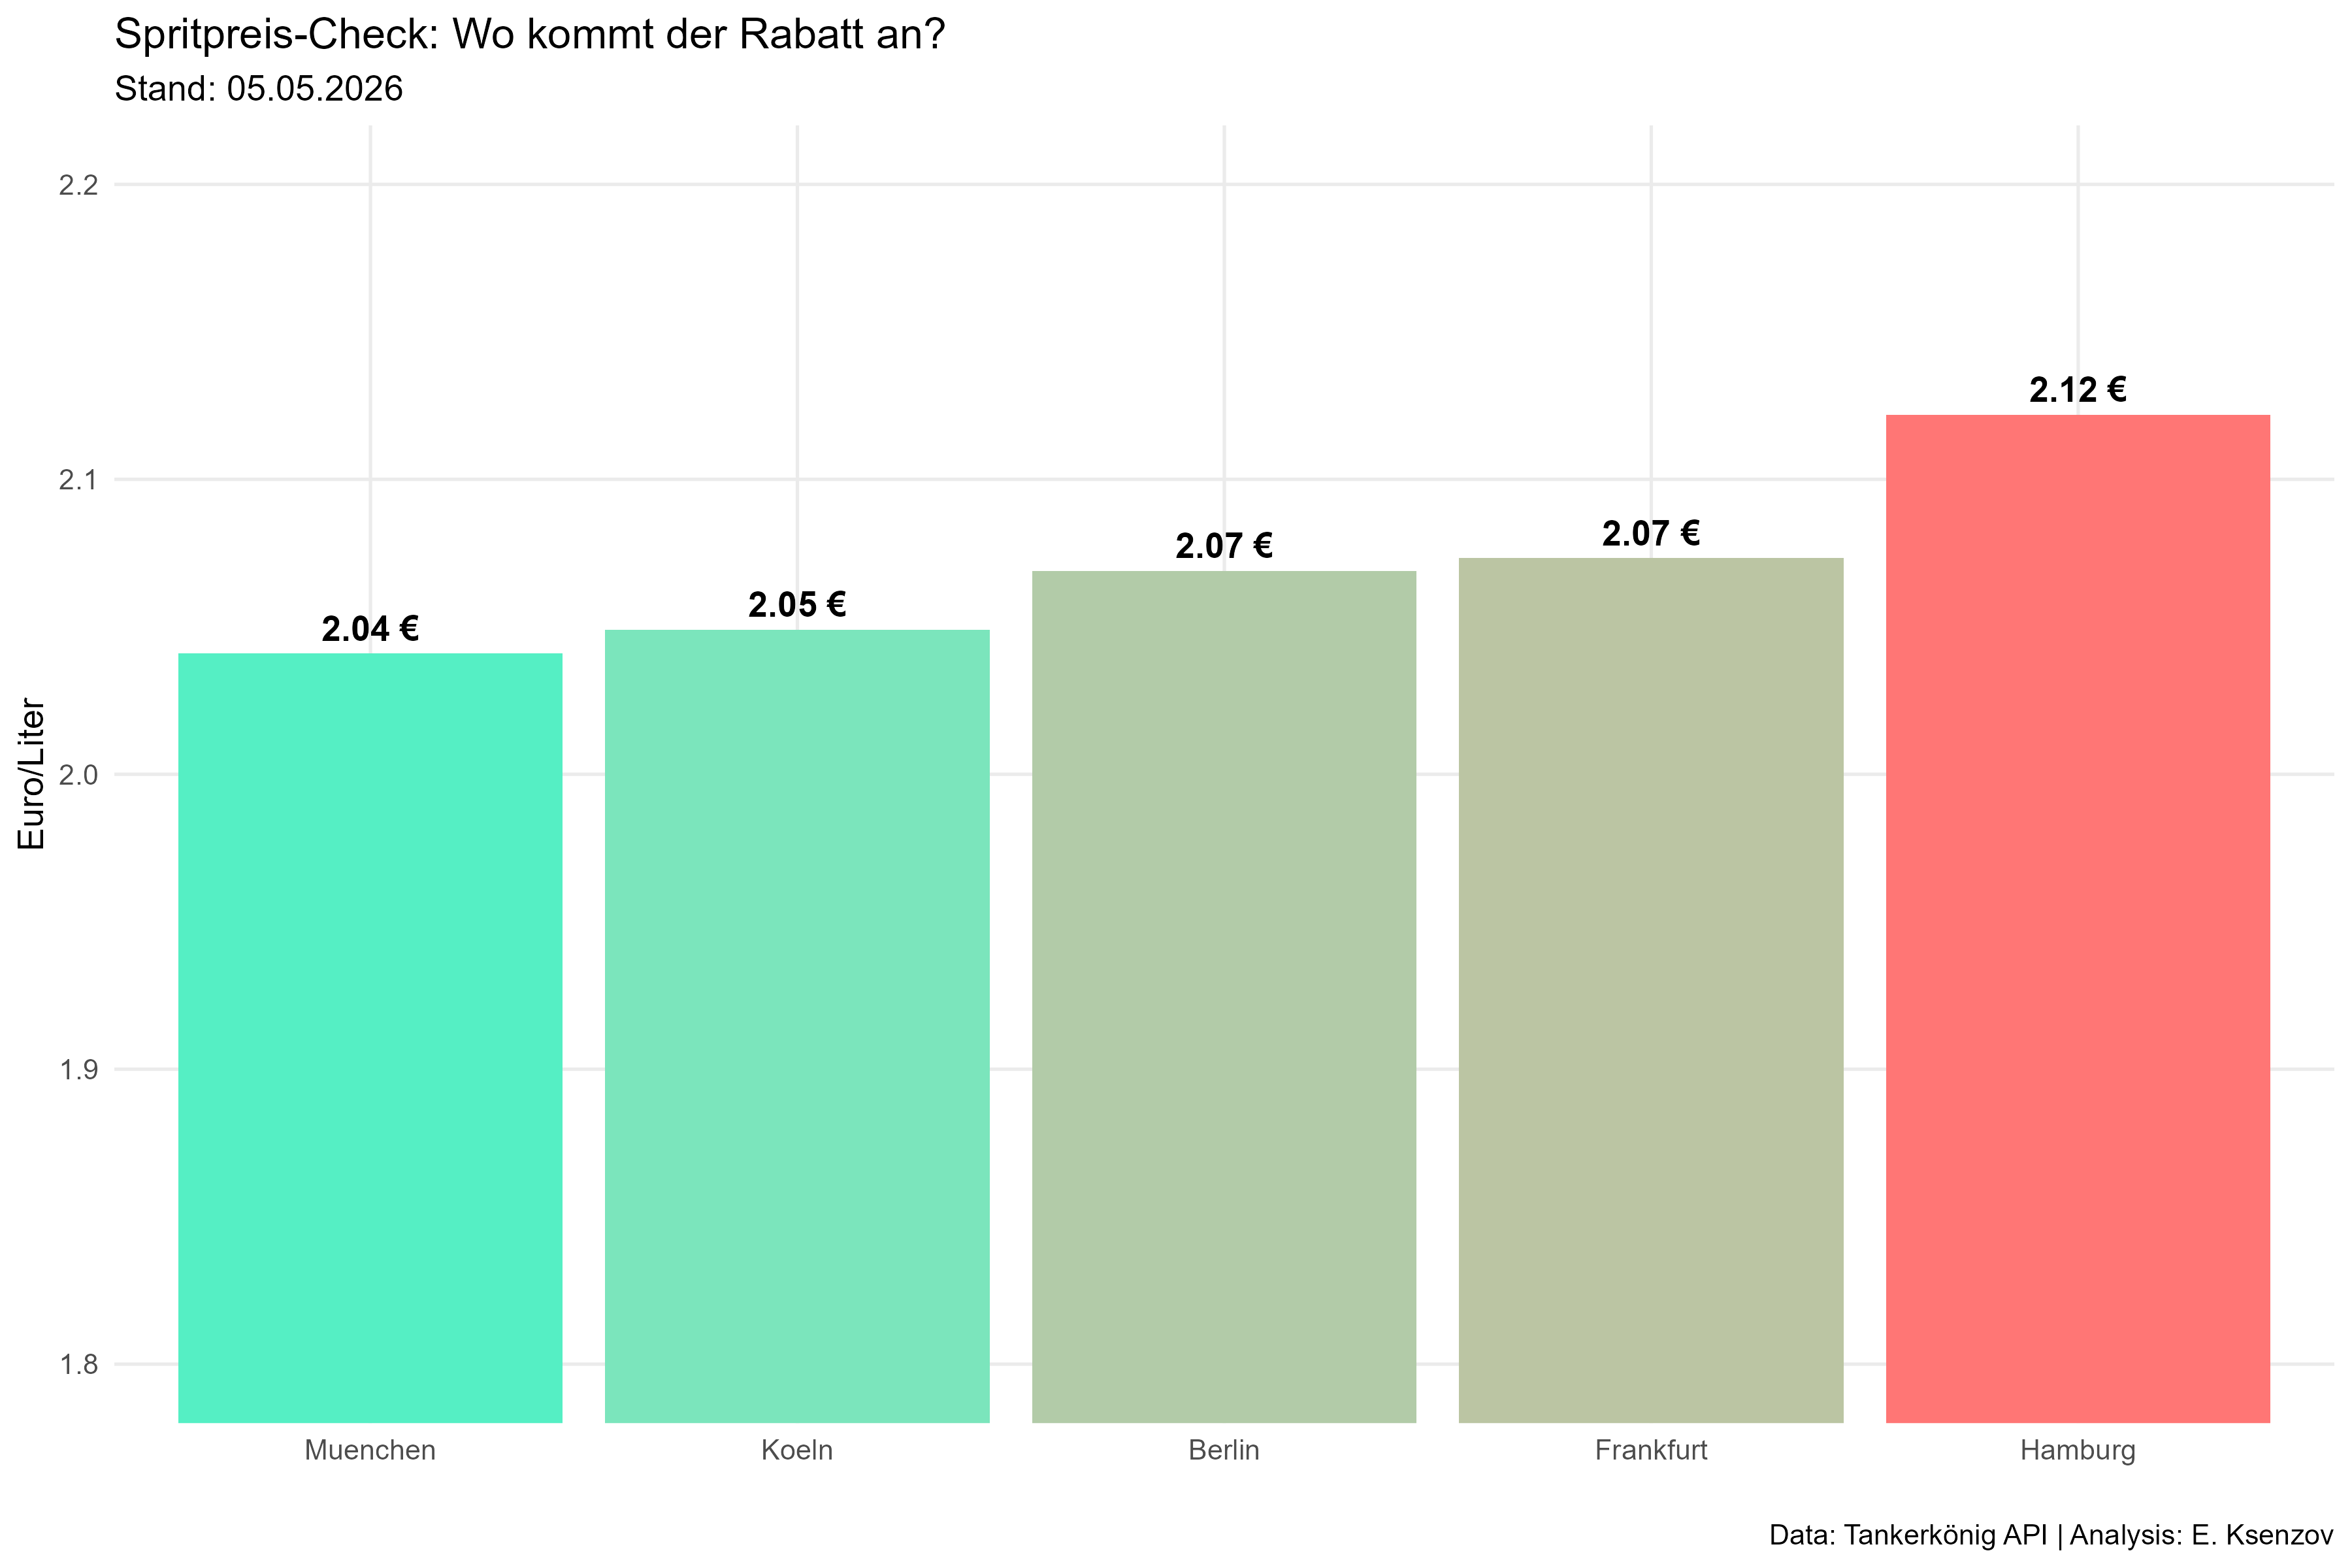
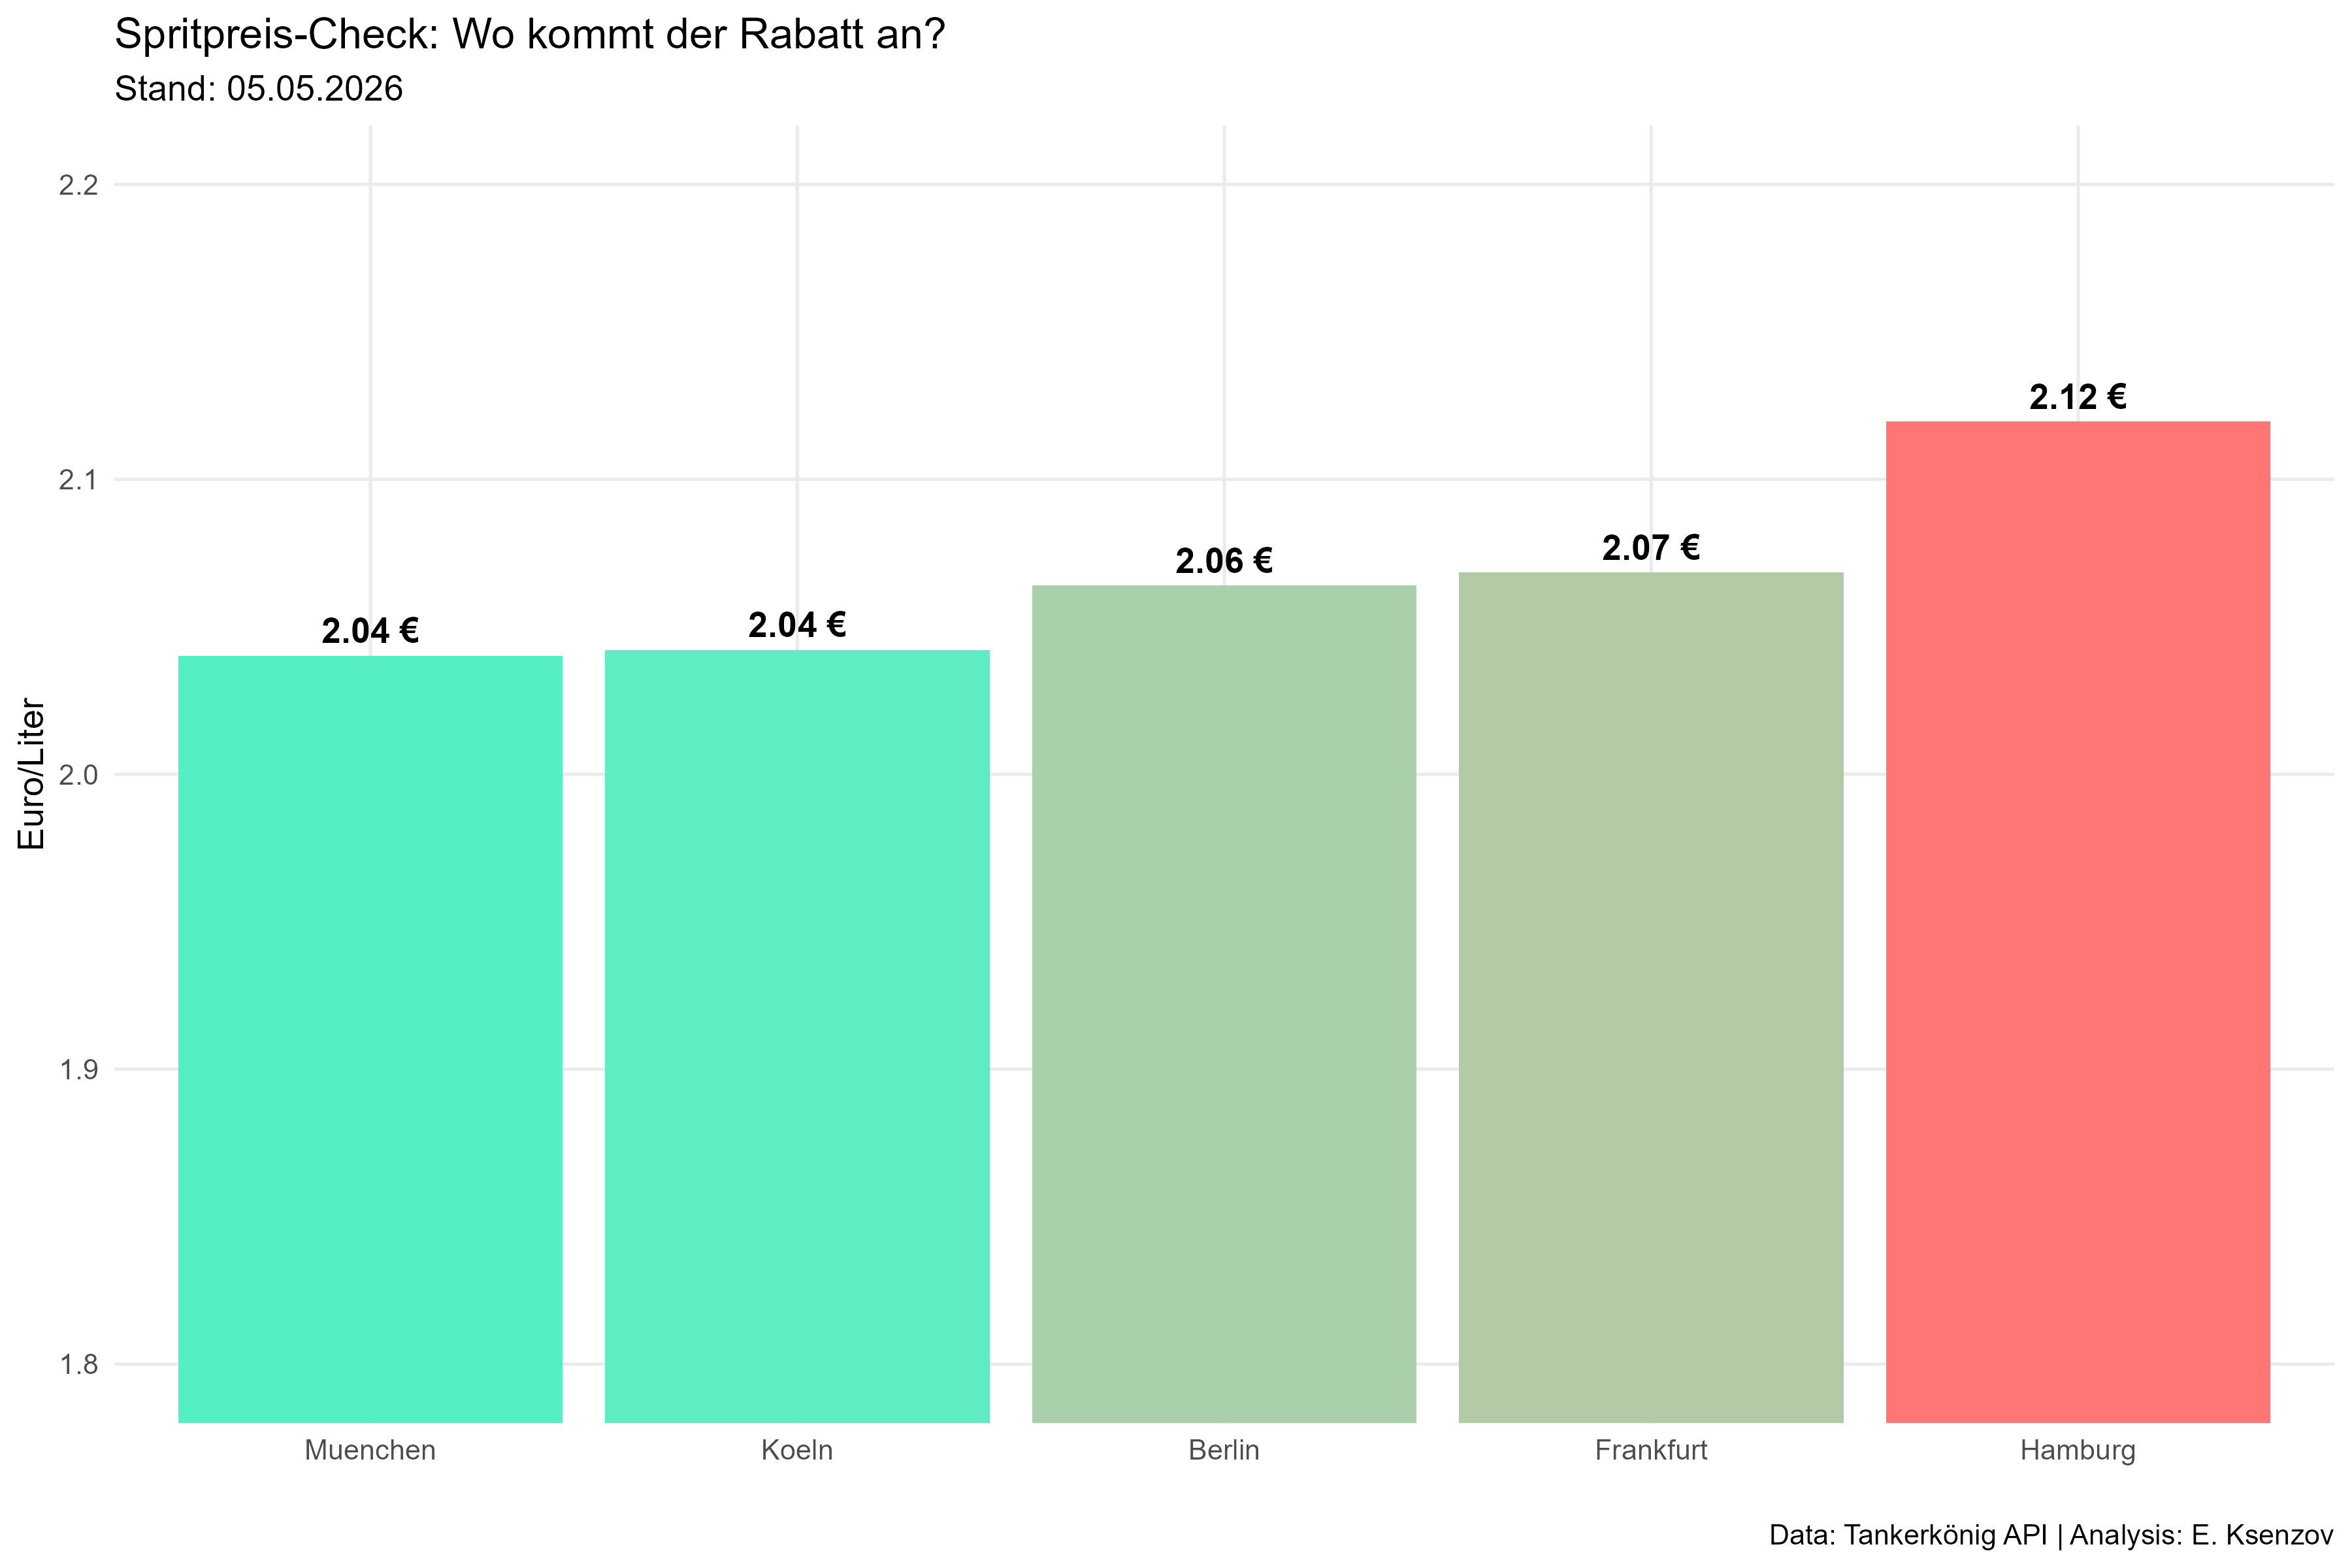
Update README and final plot

Changed region(s): [[0.2489, 0.375, 0.4356, 0.9062], [0.4356, 0.3125, 0.7778, 0.375], [0.8089, 0.2188, 0.9644, 0.2812]]

diff --git a/README.md b/README.md
@@ -1,0 +1,26 @@
+Spritpreis-Analyse 2026
+Monitoring der Preisweitergabe in
+deutschen Großstädten.
+
+Zielsetzung
+Untersuchung der 17-Cent-Preissenkung
+in Berlin, Hamburg, München,
+Köln und Frankfurt.
+
+Daten & Tech
+Live-Daten via Tankerkönig API
+
+R (tidyverse, httr2, ggplot2)
+
+Automatisierte Visualisierung
+
+Methodik
+Die Abfrage erfolgt im 5km-Radius
+um die jeweiligen Stadtzentren.
+API-Keys werden sicher über
+die .Renviron-Datei geladen.
+
+Ergebnis
+Die Grafik (gas_price_check.png) zeigt
+den aktuellen Städtevergleich im
+direkten Überblick.